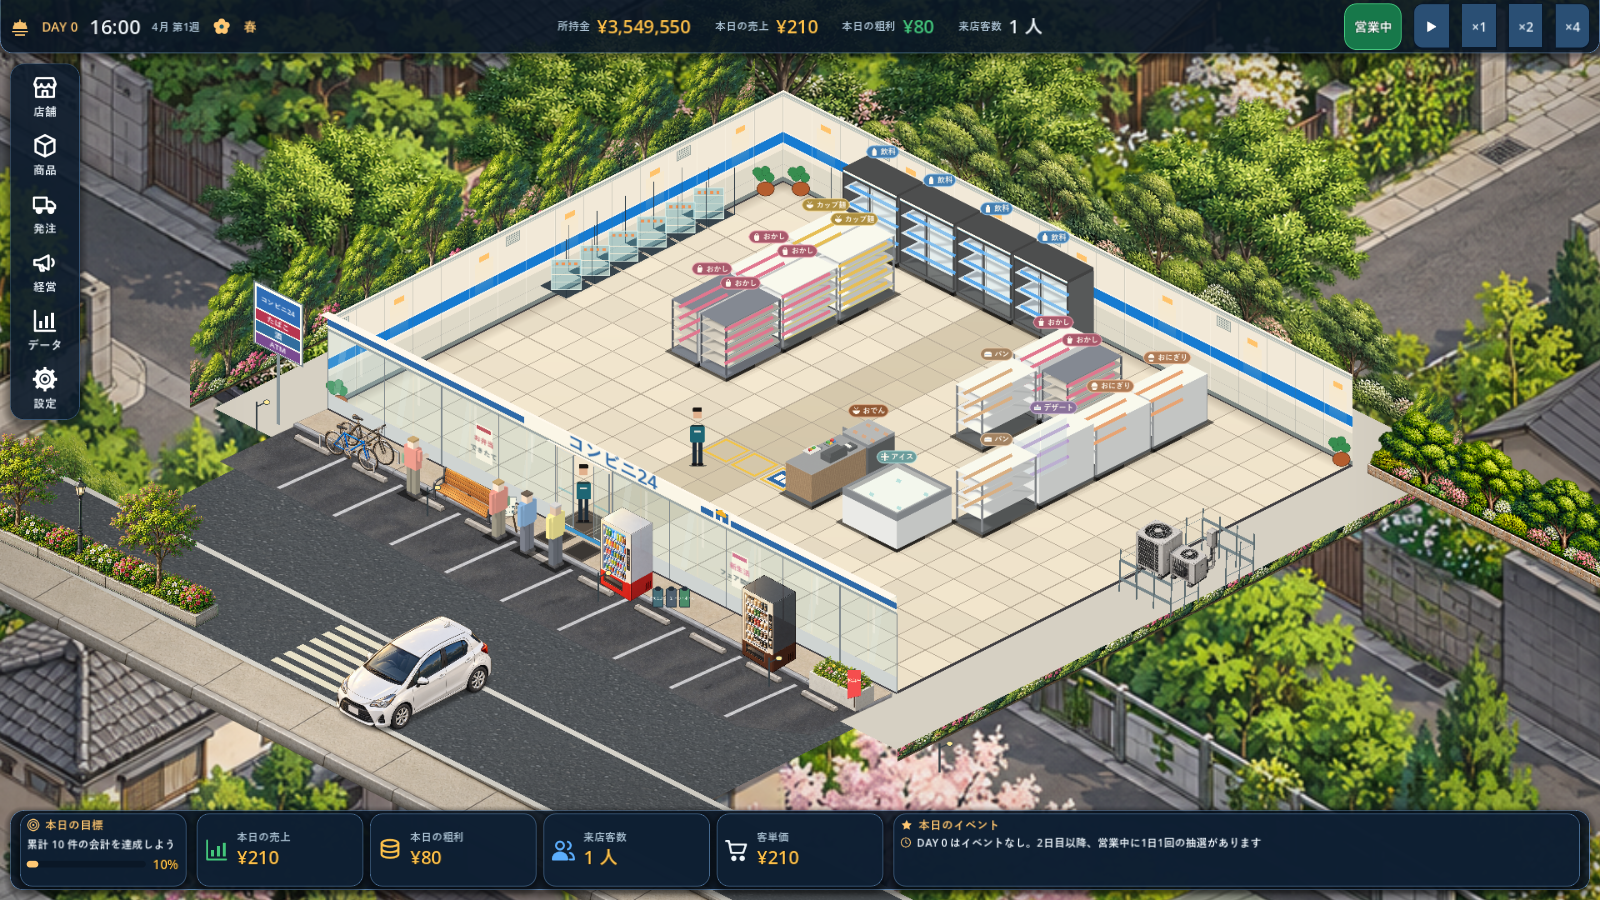
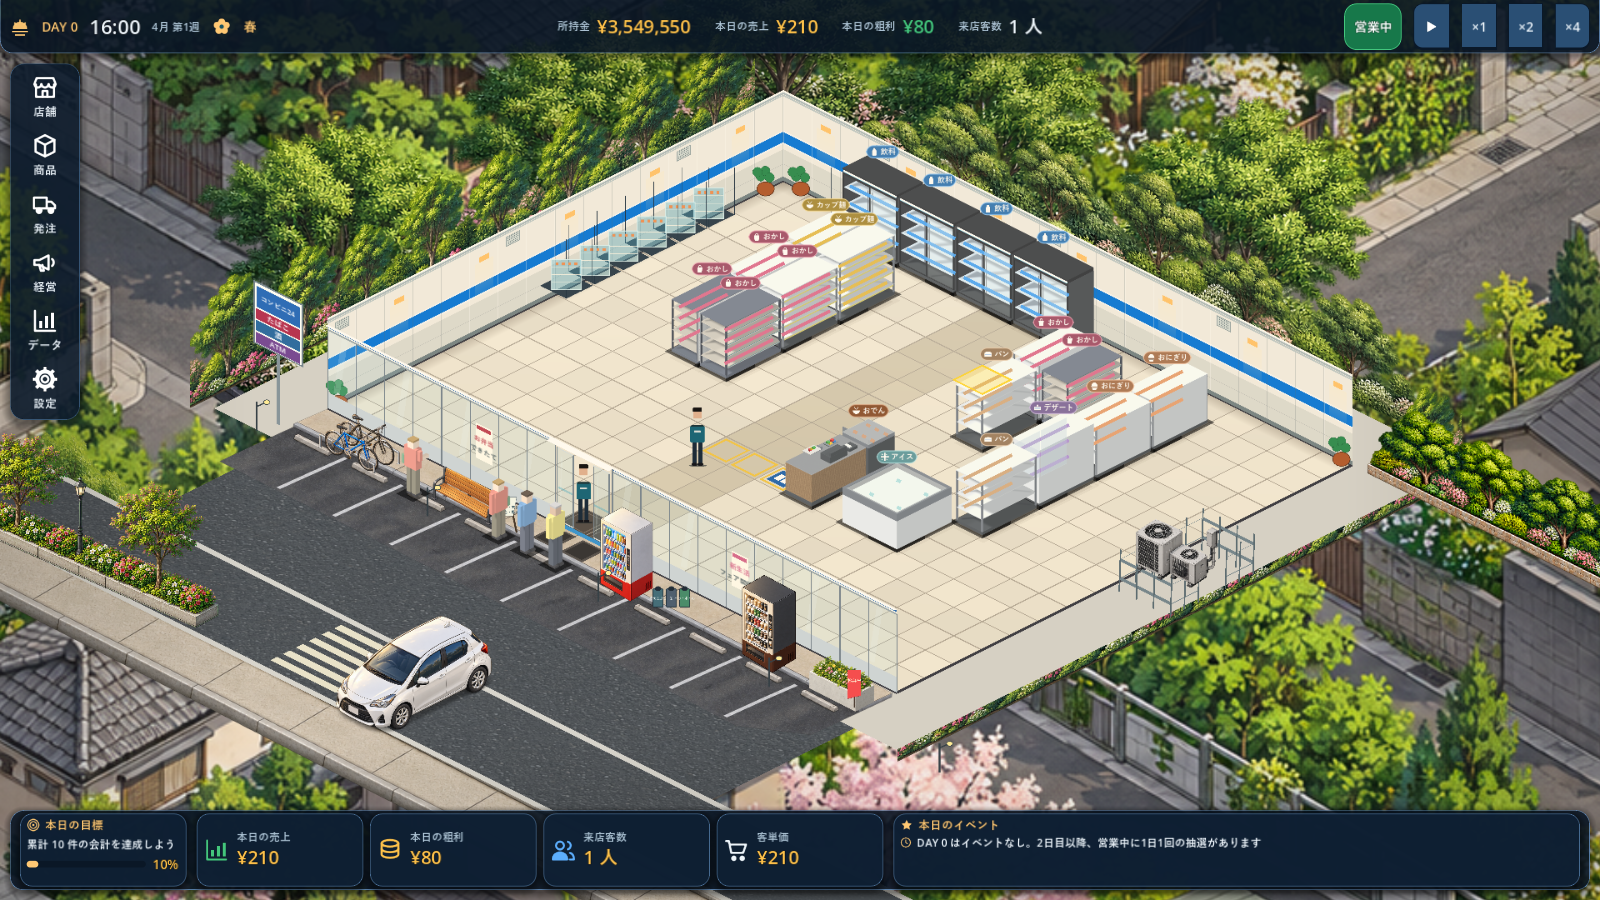
Add one-metre glazing mullions to storefront

diff --git a/docs/qa/exterior-area-a/REMAINING_DIFFERENCES.md b/docs/qa/exterior-area-a/REMAINING_DIFFERENCES.md
@@ -4,7 +4,7 @@ Reference: user-supplied `image-1792819026698.webp` (16:28) and the current Godo
 
 | Region | Target vs current | Remaining 2D work and world placement | Priority |
 |---|---|---|---|
-| Storefront | Target has a long, bright, branded fascia over tall glazed panes. The game now has a blue/white band, a white-backed 6.2m fascia label reading コンビニ24, a matching compact pole-sign title, a small blue/yellow house mark, and two code-drawn promotion posters on near-side glazing; the entrance remains clear. The house mark, poster typography and fascia framing are still simpler than the target. | Refine repeatable fascia modules and denser window framing without hiding the shop interior or entrance; keep the house mark and poster typography closer to the target. | P1 |
+| Storefront | Target has a long, bright, branded fascia over tall glazed panes. The game now has a blue/white band, a white-backed 6.2m fascia label reading コンビニ24, a matching compact pole-sign title, a small blue/yellow house mark, and two code-drawn promotion posters on near-side glazing; the entrance remains clear. Near-side glazing now has one-metre metal mullions across closed panes. The house mark and poster typography remain simpler than the target. | Refine repeatable fascia modules, the house mark and poster typography without hiding the shop interior or entrance. | P1 |
 | Entrance | Target has framed automatic glass doors, a dark entrance mat and nearby promotion. Game draws two static translucent leaves recessed to the sides, leaving a 0.7m center route; code-drawn posters sit on closed panes and avoid the entrance span. The leaves do not animate. | Improve leaf/frame readability at full-scene scale and consider a light opening animation only if it keeps the existing customer path and click-through behavior intact. | P2 |
 | Parking | Both show asphalt, stalls and wheel stops. All four frontage panels now have generated asphalt and stone variation; the east/west apron transform was corrected after the original 10m source exposed an inward-facing panel. The target still has more natural curb wear and storefront-side detail. | Review panel edges at close scale and refine curb wear while retaining stall and wheel-stop placement. | P2 |
 | Road | Target shows a broader street, directional arrows and a moving/parked vehicle. Game now has opposing lane arrows, lane marks, edge line, crossing, and one static road car; it still has fewer traffic cues. | Review texture scale and distant fade under extreme camera movement; add road detail outside the store interaction footprint. | P2 |

diff --git a/docs/qa/exterior-area-a/RESULTS.md b/docs/qa/exterior-area-a/RESULTS.md
@@ -683,3 +683,10 @@ Actual Godot 4.7.2 captures: 12x10, 16x12 and 20x16 at 1600x900; 20x16 left/righ
 Replaced the broad residential paved block in v5 with `urban_context_dimetric_v6`, a 1774x887 generated Japanese neighborhood image. Narrow streets, garden walls, low-rise home edges, layered trees and flower borders fill the backdrop; candidate B was selected over candidate A because the roofs intruded less at the store frame edges. Runtime remains unrotated and uniformly scaled, anchored at the projected store center, and follows camera pan/zoom. No stretching was introduced. The backdrop is a continuous environment image and does not affect floor input or simulation.
 
 Actual Godot 4.7.2 screenshots: 12x10, 16x12 and 20x16 at 1600x900; 20x16 left/right pan; 1280x720 and 1920x1080; and minimum/maximum zoom. Contact sheet: `urban-context-lowpaved-v6-2026-10-31/v6-qa-contact.png`. Focused `test_backdrop_layer` passed 25 tests / 396 assertions, including viewport coverage and camera-follow transform checks. Focused `test_shell_camera_input` passed 10 tests / 96 assertions, including pan, zoom, fit, selection after camera movement and UI input isolation. No full suite was run. Remaining difference: the generated neighborhood is more detailed than the flat store; maximum zoom intentionally focuses on the store and crops the environment.
+
+
+## Storefront glazing grid (2026-10-31)
+
+Tightened the near-side storefront mullions from every two tiles to every one-metre boundary. Mullions at the entrance edges remain omitted where they would cross the clear doorway. This adds window rhythm while preserving the existing glass alpha, shop visibility and entrance path.
+
+Actual Godot 4.7.2 captures at 1600x900 cover 12x10, 16x12 and 20x16: `front-mullions-v1-2026-10-31/front-mullions-v1-12x10-1600x900.png`, `front-mullions-v1-2026-10-31/front-mullions-v1-16x12-1600x900.png`, and `front-mullions-v1-2026-10-31/front-mullions-v1-20x16-1600x900.png`; see the `contact.png` sheet in that folder. Focused `test_store_decor` passed 27 tests / 796 assertions, including mullion boundaries at all three store widths and door clearance. No full suite was run.
